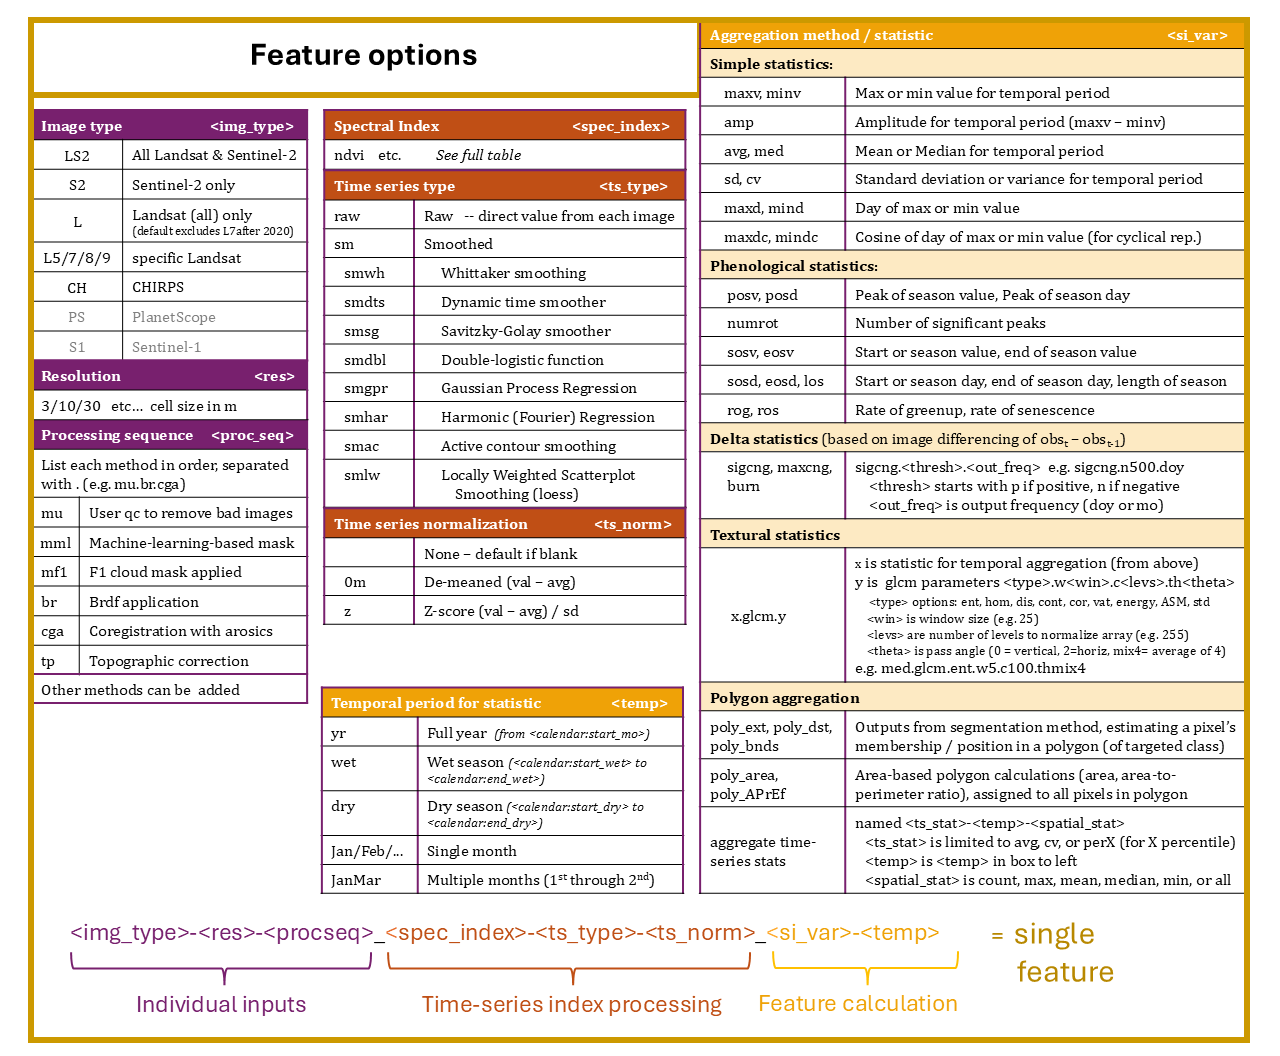
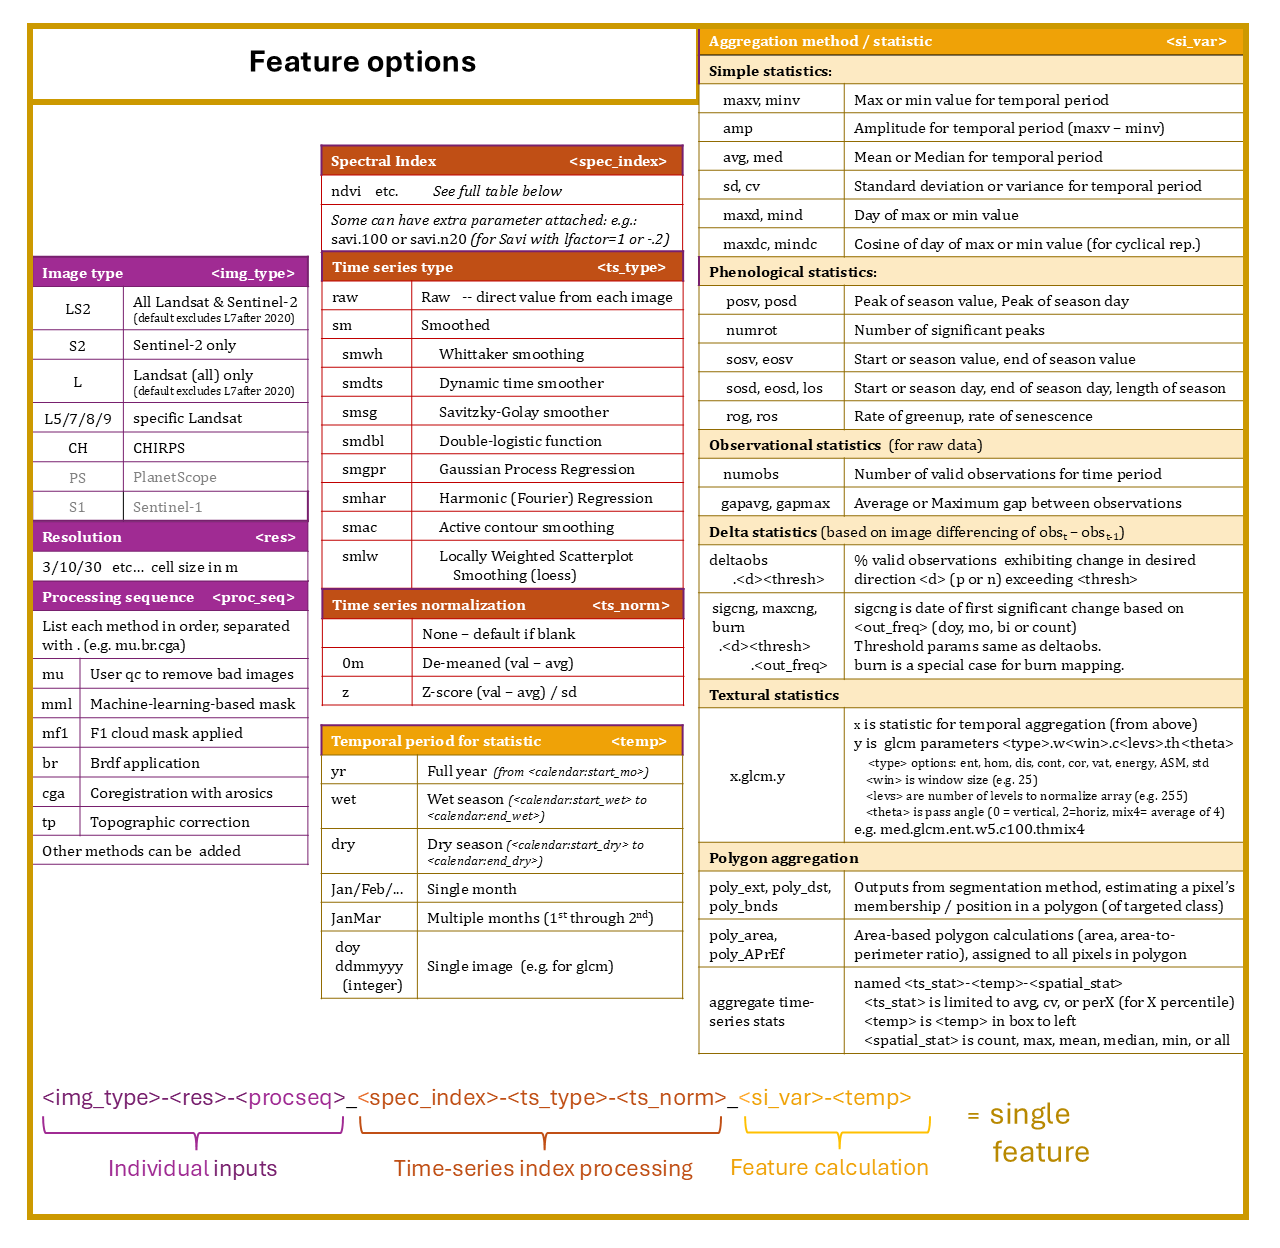
obs features

diff --git a/tstuyau/steps/pheno.py b/tstuyau/steps/pheno.py
@@ -713,17 +713,67 @@ def prep_ts_variable_bands(si_vars, ts_stack,ds_stack, out_dir,temp,start_doy,co
         mind_cos = 100 * (np.cos(mind_360) + 1)
         mind_cos = mind_cos.astype('int16')
         add_var_to_stack(mind_cos,f'mindc-{temp}', attrs,out_dir,comp_band_names,ras_list,**gw_args)
-    if f'deltaobs-{temp}' in si_vars:
+    
+    if f'numobs-{temp}' in si_vars:
+        ## number of valid observations in data stack -- mostly useful with raw time series
+        ## <reconstruct><nodata> probably neeeds to be set to 0 so that 0s are also seen as NA
+        numobs = src.count(dim="time").astype('int16')
+        add_var_to_stack(numobs,f'numobs-{temp}', attrs,out_dir,comp_band_names,ras_list,**gw_args)
+    if f'perclear-{temp}' in si_vars:
+        ## not super useful because num_images will include partially overlapping images (NA is missing data; not always clouds)
         num_images = len(sts_stack)
+        numobs = src.count(dim="time")
+        perclear = (100 * numobs / num_images).astype('int16')
+        add_var_to_stack(perclear,f'perclear-{temp}', attrs,out_dir,comp_band_names,ras_list,**gw_args)
+    if f'gapavg-{temp}' in si_vars:
+        numobs = src.count(dim="time").astype('int16')
+        numdays = (src.time[-1] - src.time[0]).dt.days.item() + 1
+        gapavg = (numobs / numdays).astype('int16')
+        add_var_to_stack(gapavg,f'gapavg-{temp}', attrs,out_dir,comp_band_names,ras_list,**gw_args)
+    if f'gapmax-{temp}' in si-vars:
+        is_na = src.isnull()
+        grouper = (~is_na).cumsum(dim='time')
+        numna = da.time.where(is_na)
+        streak_starts = numna.groupby(grouper).min(dim='time')
+        streak_ends = numna.groupby(grouper).max(dim='time')
+        durations = (streak_ends - streak_starts) + np.timedelta64(1, 'D')
+        gapmax = durations.dt.days.max().item()
+        add_var_to_stack(gapmax,f'gapmax-{temp}', attrs,out_dir,comp_band_names,ras_list,**gw_args)
+        
+    if any(v.startswith('deltaobs') and v.endswith(temp) for v in si_vars):
+        '''
+        output is percent of significant changes (exceeding <thresh>) in temporal period for valid observations
+        threshold is supplied with . following deltaobs -- e.g. deltaobs.p500 or deltaobs.n500 
+        (n and p indicate whether negative or positive changes are to be counted, respectively) 
+        '''
+        siv = [v for v in si_vars if v.startswith('deltaobs')][0]
+        if '.' in siv:
+            thresh0 = siv.split('.')[1].split('-')[0]
+            if 'n' in thresh0:
+                thresh = -1 * int(thresh0.split('n')[1])
+            elif 'p' in thresh0:
+                thresh = int(thresh0.split('p')[1])
+            else: ## assume negative changes are significant if unspecified
+                thresh = -1 * int(thresh0)
+        else:
+            thresh = 0
+        ## <reconstruct><nodata> neeeds to be set to 0 to set 0s to NA
+        num_images = len(sts_stack) ## note -- this count will include NAs
+        numobs = src.count(dim="time")  ## this is number of non NA observations for each pixel
         src_c = src.chunk({"time": -1})
         srcf = src_c.ffill(dim='time')
         srcff = srcf.bfill(dim='time')
         ## shift moves data one to the right 
         delta = srcff - srcff.shift(time=1)
-        negdelta = xr.where(delta < 0, 1, 0)
-        numnegs = negdelta.sum(dim='time').fillna(0).astype('int16')
-        numnegs1 = (100 * numnegs / num_images).astype('int16')
-        add_var_to_stack(numnegs1,f'numnegdelta-{temp}', attrs,out_dir,comp_band_names,ras_list,**gw_args)
+        if ('.' in siv) and ('p' in thresh0):
+            deltaflag = xr.where(delta > thresh, 1, 0)
+            varname = 'numposdelta'
+        else:
+            deltaflag = xr.where(delta < thresh, 1, 0)
+            varname = 'numnegdelta'
+        numflags = deltaflag.sum(dim='time').fillna(0).astype('int16')
+        numflags1 = (100 * numflags / numobs).astype('int16')
+        add_var_to_stack(numflags1,f'{varname}-{temp}', attrs,out_dir,comp_band_names,ras_list,**gw_args)
     
     logger.debug(f"comp_band_names = {comp_band_names}, ras_list={ras_list}")
     return comp_band_names,ras_list
